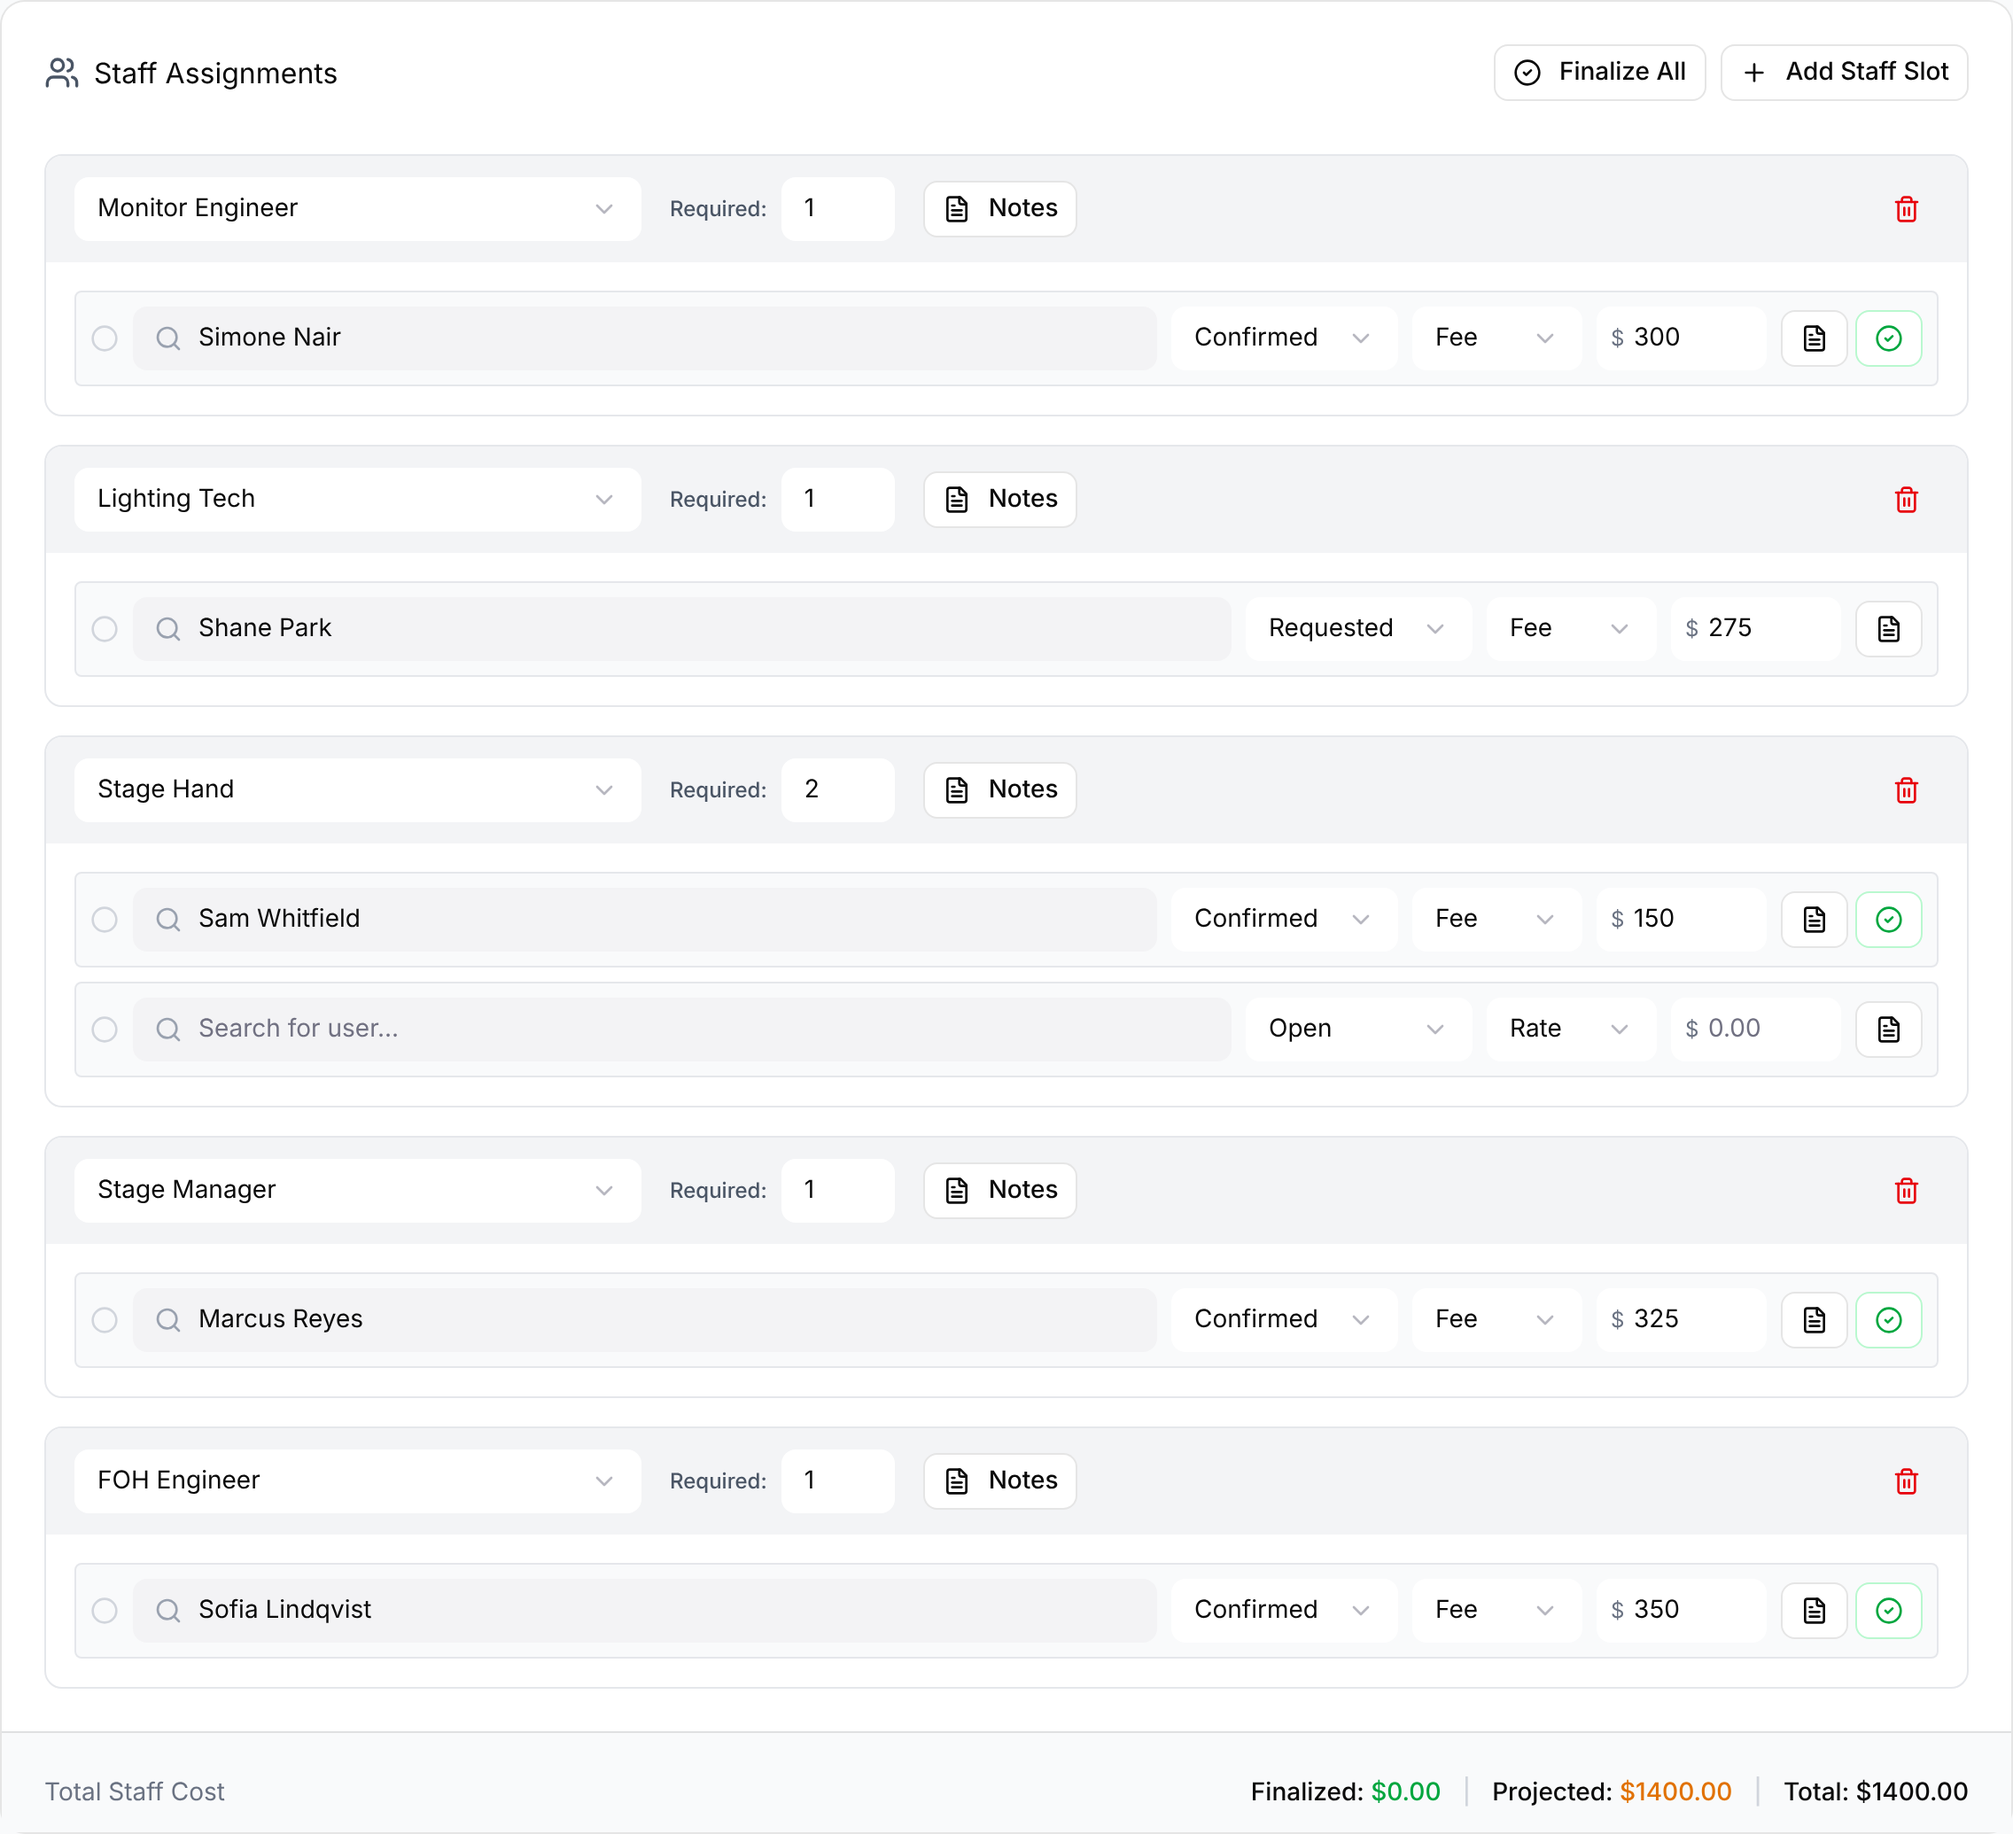
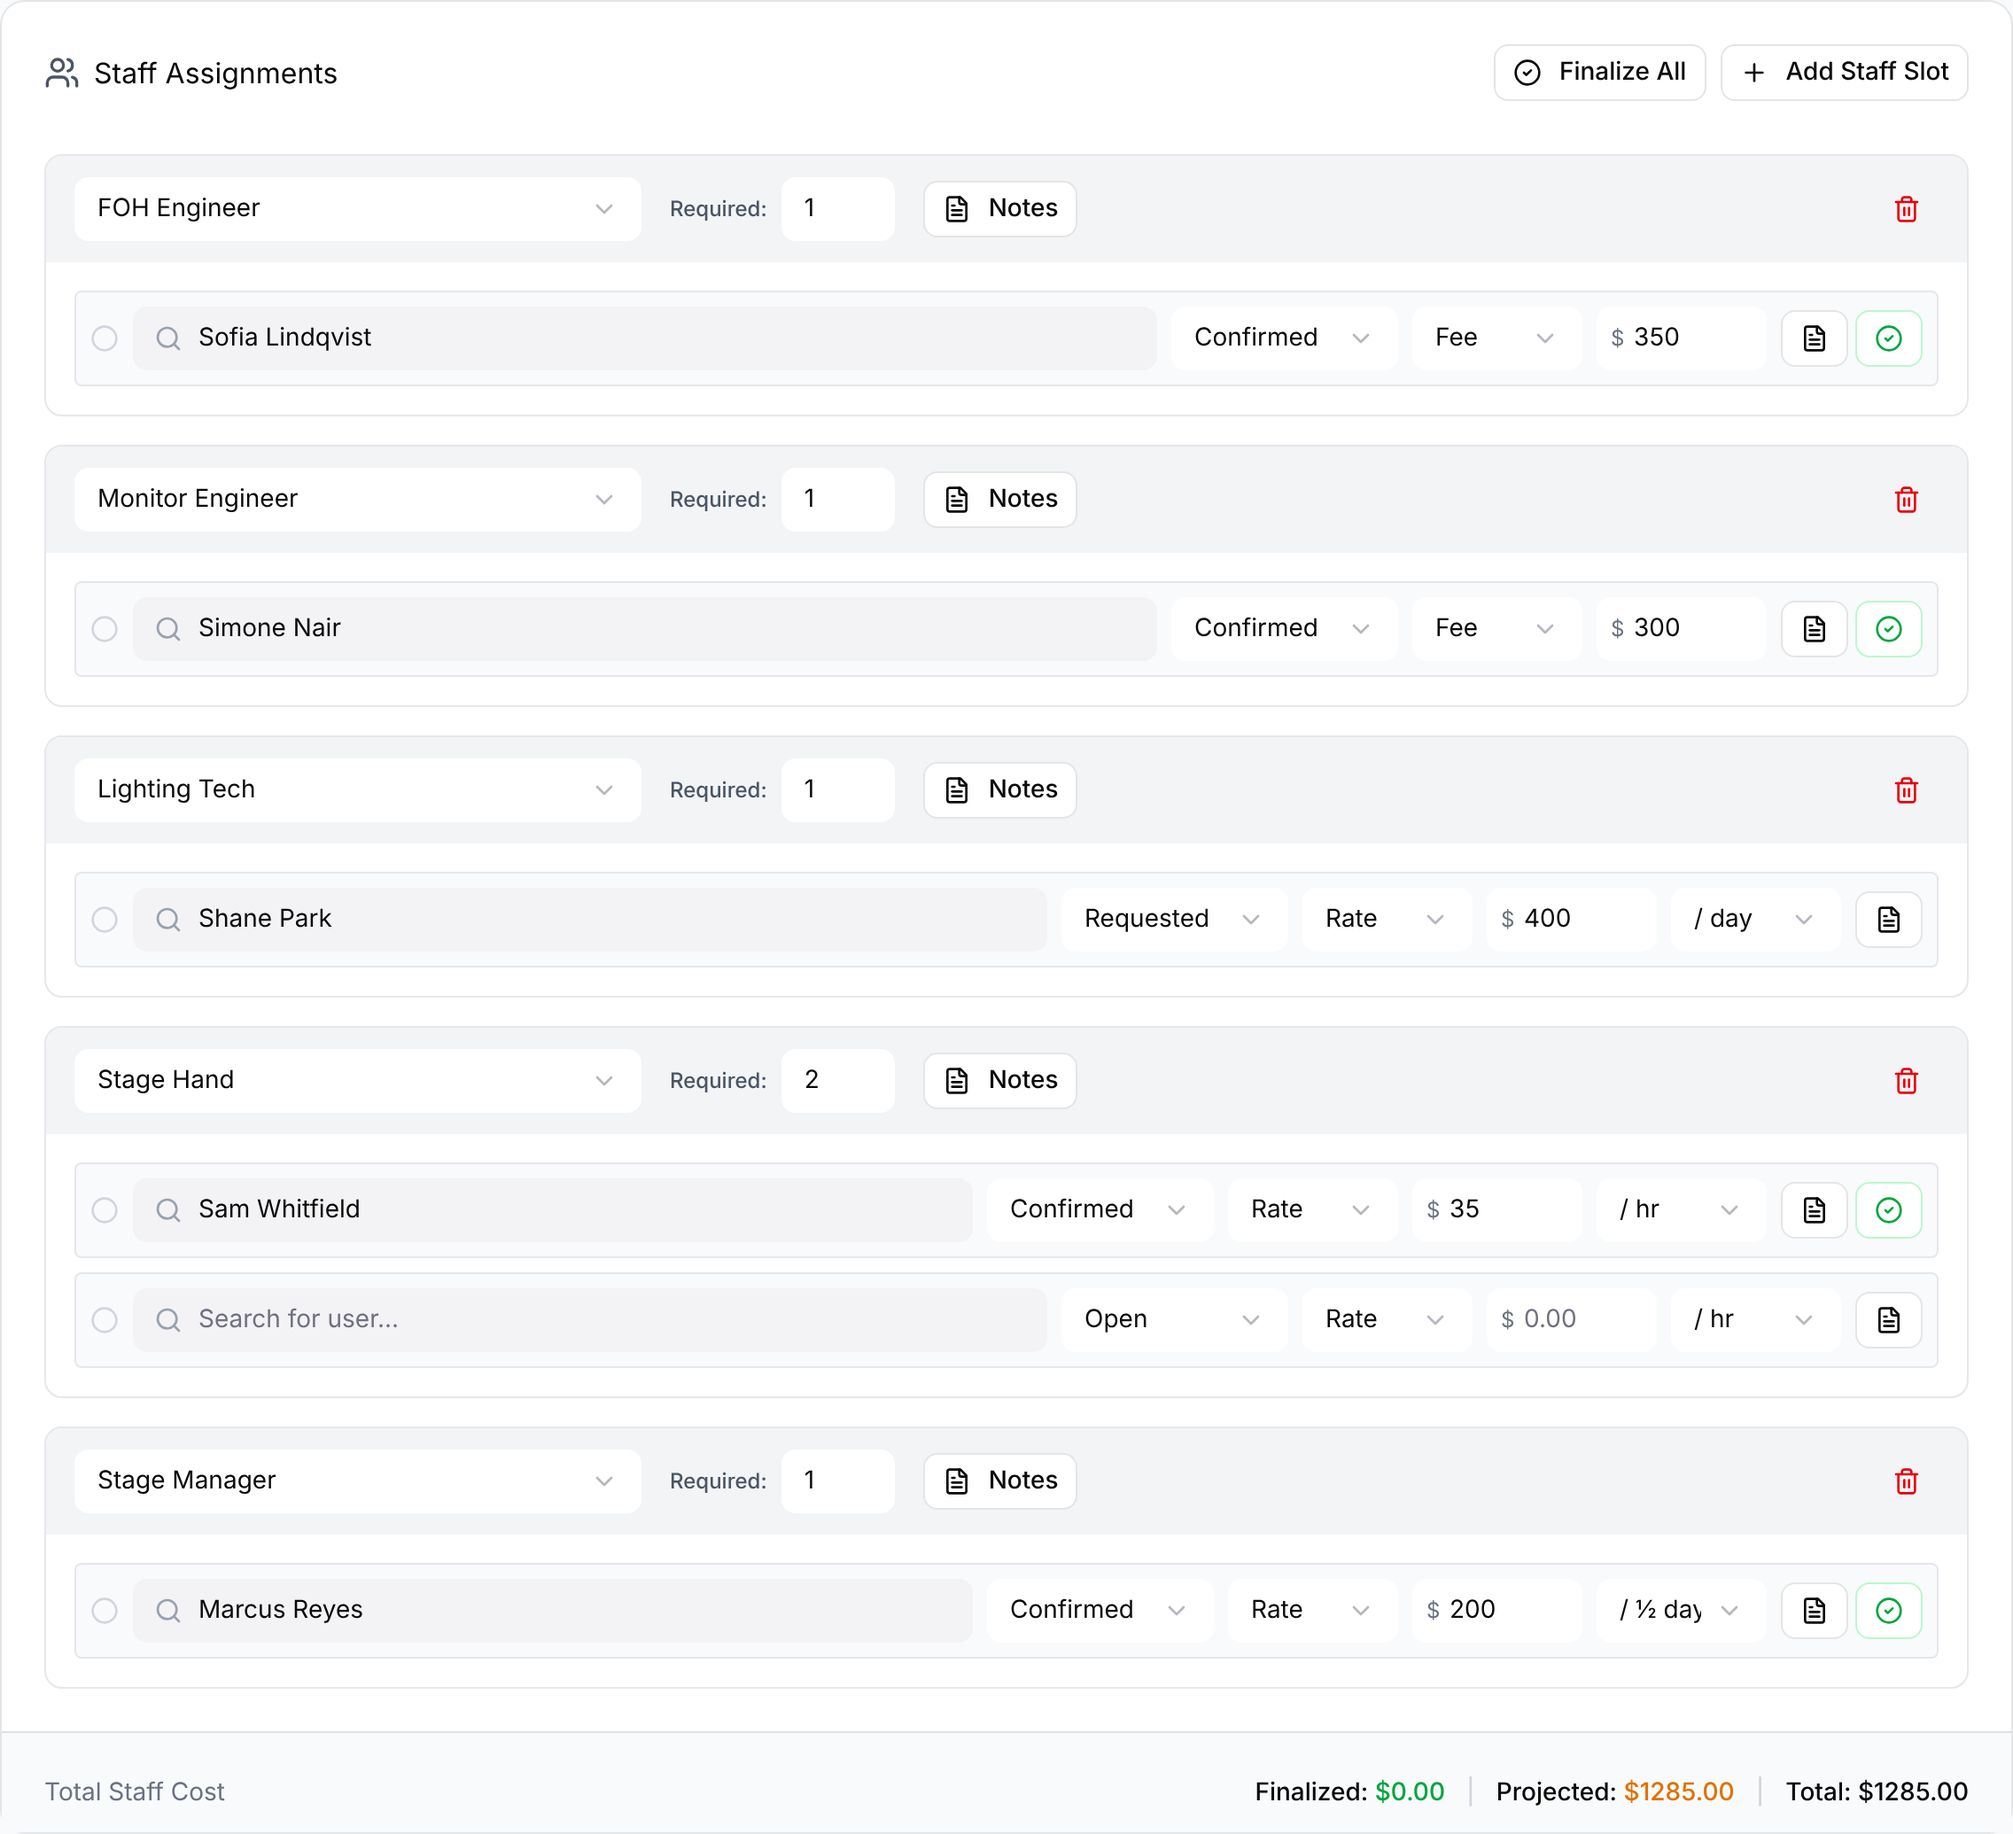
User guide: staff rate units (#171): seed rates, staffing shots, wording
- Demo seed: the lighting tech is paid $400 / day, stagehands $35 / hr and
  the stage manager $200 / half day (FOH and monitors keep fees); finished
  gigs finalize rates with 9 hours or a day per gig day.
- Staffing page: the read-only Staffing card shows phone and email by
  default (Columns hides them), its Staff cost line, and a new screenshot;
  the edit-mode shot retaken with rates; #213 TODO on projected rates.
- A gig's money: Projected staff costs count a rate once; Finalize asks for
  hours, days or half days.

Claude-Session: https://claude.ai/code/session_0118YwkJXDrQDMYNEuMW5wT3

diff --git a/scripts/README.md b/scripts/README.md
@@ -70,7 +70,7 @@ The `ai-scan` Edge Function requires an Anthropic API key to process PDFs.
 
 - **Idempotent.** The SQL first deletes every row belonging to the demo organizations and users (fixed UUIDs of the form `de000000-0000-4000-8000-<kind><n>`), then re-inserts. Rows without a demo UUID are never touched.
 - **Pinned dates.** Every date hangs off an anchor date, the demo world's "today" (default `2026-10-07`; pass another as `./scripts/seed-demo.sh 2027-01-15` or `SEED_DEMO_ANCHOR`). Screenshots freeze the browser clock to the same date and use the `America/Los_Angeles` time zone, so Upcoming/Past and "next 30 days" don't drift. Move the anchor only for a full screenshot refresh. Gigs are placed by week and weekday, so they stay on Friday and Saturday evenings.
-- **Contents.** "Demo Sound & Lighting" plus five partner orgs (Harborlight Pavilion and Cedar Hall, venues; Neon Orchard and Paper Lanterns, acts; Brightwave Events, the main client); 7 logins (one per role, one in no organization, a platform moderator, and a venue contact) and 10 people without logins; 17 gigs from about 8 weeks back to 14 weeks ahead across all statuses (two of them two-day, and two that deliberately conflict), with participants, day-of contacts, schedules, staffing and kit assignments; 26 equipment items owned as 26 tagged units (speakers, subs, wedges, consoles, wireless, moving heads, wash bars with two in maintenance, controller, power distros) and 15 counted lots (mics, DI boxes, cables, pars, stands, truss); 6 kits (a nested band package holding two kits and two containers, a mic case and an XLR cable box) using all three kinds of kit line: a specific unit or lot, "N × any" of an item, and another kit; last-scanned locations, with counts for lots; 4 purchases, each line's tax treatment following its per-item cost (under $200 Expense, over $2,500 Depreciate, the grey zone mixed); a gig ledger with paid, invoiced, overdue, contracted and quoted rows; and three weeks of activity history.
+- **Contents.** "Demo Sound & Lighting" plus five partner orgs (Harborlight Pavilion and Cedar Hall, venues; Neon Orchard and Paper Lanterns, acts; Brightwave Events, the main client); 7 logins (one per role, one in no organization, a platform moderator, and a venue contact) and 10 people without logins; 17 gigs from about 8 weeks back to 14 weeks ahead across all statuses (two of them two-day, and two that deliberately conflict), with participants, day-of contacts, schedules, staffing (fees, and rates per hour, day and half day; finalized on finished gigs) and kit assignments; 26 equipment items owned as 26 tagged units (speakers, subs, wedges, consoles, wireless, moving heads, wash bars with two in maintenance, controller, power distros) and 15 counted lots (mics, DI boxes, cables, pars, stands, truss); 6 kits (a nested band package holding two kits and two containers, a mic case and an XLR cable box) using all three kinds of kit line: a specific unit or lot, "N × any" of an item, and another kit; last-scanned locations, with counts for lots; 4 purchases, each line's tax treatment following its per-item cost (under $200 Expense, over $2,500 Depreciate, the grey zone mixed); a gig ledger with paid, invoiced, overdue, contracted and quoted rows; and three weeks of activity history.
 - **People.** First names start with the letter of their role (Admin **A**licia, Manager **M**arcus, Staff **S**ofia and the freelance crew, Viewer **V**ictor and the partner contacts), so a screenshot shows who is who. Avatars stay as initials.
 - **Demo logins** (password `demo1pass`):
 

diff --git a/website/docs/src/content/docs/gigs/staffing-and-participants.md b/website/docs/src/content/docs/gigs/staffing-and-participants.md
@@ -38,7 +38,7 @@ Each row in a slot is one person.
 
 A row with no person selected isn't saved. If you lower **Required:**, GigWrangler removes open rows first and keeps the people you've assigned.
 
-![The Staff Assignments card in edit mode: slots for Monitor Engineer, Lighting Tech, Stage Hand (two required, one open), Stage Manager and FOH Engineer, each person with a status, Fee and amount, and the Total Staff Cost footer](../../../assets/screenshots/gigs/staffing-assignments.png)
+![The Staff Assignments card in edit mode: slots for FOH Engineer, Monitor Engineer, Lighting Tech, Stage Hand (two required, one open) and Stage Manager, each person with a status and pay: fees for FOH and monitors, and rates per day, per hour and per half day for the others, then the Total Staff Cost footer](../../../assets/screenshots/gigs/staffing-assignments.png)
 
 ## Finalizing completed work
 
@@ -56,13 +56,16 @@ The footer shows **Total Staff Cost** in three parts:
 
 - **Finalized**: finalized assignments (rate times units, or the fee).
 - **Projected**: **Confirmed** and **Requested** assignments not yet finalized. A rate counts as one of its unit until it's finalized.
+<!-- TODO: #213 — projected rates count one unit (one hour for $35 / hr). Update once Cameron picks a fix. -->
 - **Total**: the two added together.
 
 ## Viewing staffing
 
-Everyone in your organization who can open the gig sees a read-only **Staffing** card, headed with a summary such as "3 of 4 filled · 2 confirmed". Each row shows the role, the person (or **Open**), and a status badge. **Columns** adds phone, email and notes.
+Everyone in your organization who can open the gig sees a read-only **Staffing** card, headed with a summary such as "3 of 4 filled · 2 confirmed". Each row shows the role, the person (or **Open**), their phone and email, a status badge and any notes. Use **Columns** to hide the ones you don't need; the choice is remembered in this browser.
 
-The **Rate / Fee** column shows a rate with its unit, such as "$400 / day", and a fee as "$450 fee". On the printed financials page, **Staff costs** shows how each rate's amount was reached, such as "3 days × $400 / day". **Rate / Fee** and the staff cost line are for Admins and Managers only. Staff and Viewers don't see pay.
+The **Rate / Fee** column shows a rate with its unit, such as "$400 / day", and a fee as "$350 fee". A **Staff cost** line under the table gives the finalized, projected and total amounts. On the printed financials page, **Staff costs** shows how each rate's amount was reached, such as "3 days × $400 / day". **Rate / Fee** and the staff cost line are for Admins and Managers only. Staff and Viewers don't see pay.
+
+![The read-only Staffing card: "5 of 6 filled · 4 confirmed", each role with the person, phone, email, status and pay, such as $350 fee, $400 / day, $35 / hr and $200 / ½ day, an open Stage Hand place, and the Staff cost line](../../../assets/screenshots/gigs/staffing-view-card.png)
 
 ## Related
 

diff --git a/website/docs/src/content/docs/financials/gig-expenses.md b/website/docs/src/content/docs/financials/gig-expenses.md
@@ -69,10 +69,10 @@ The **…** menu on any row offers **Edit**, **Set stage** and **Remove**.
 
 ## Staff pay
 
-Staff booked on the gig show under **Projected staff costs** until you finalize them in the gig's staffing section (**Finalize Assignment** or **Finalize All**).
+Staff booked on the gig show under **Projected staff costs** until you finalize them in the gig's staffing section (**Finalize Assignment** or **Finalize All**). A fee shows in full. A rate counts as one of its unit (one hour, day or half day) until it's finalized.
 
 - **Finalizing** adds the pay to money out as **Owed**, labelled "Labor: {role}" and marked **Staff**.
-- **Hourly or per-unit pay** asks how many units were worked.
+- **A rate** asks how many of its unit were worked (hours, days or half days), and the amount is the rate times that number.
 - **Undo Finalize** takes the row back out.
 
 ## Where a cost came from
